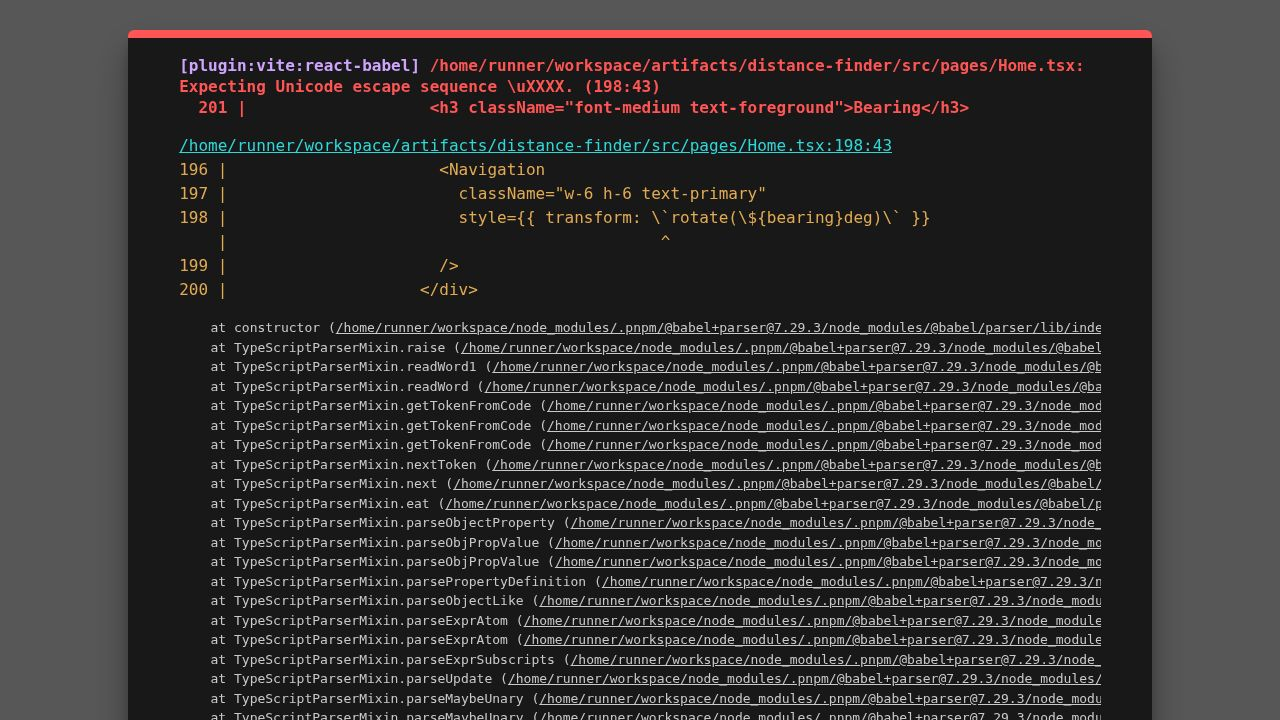
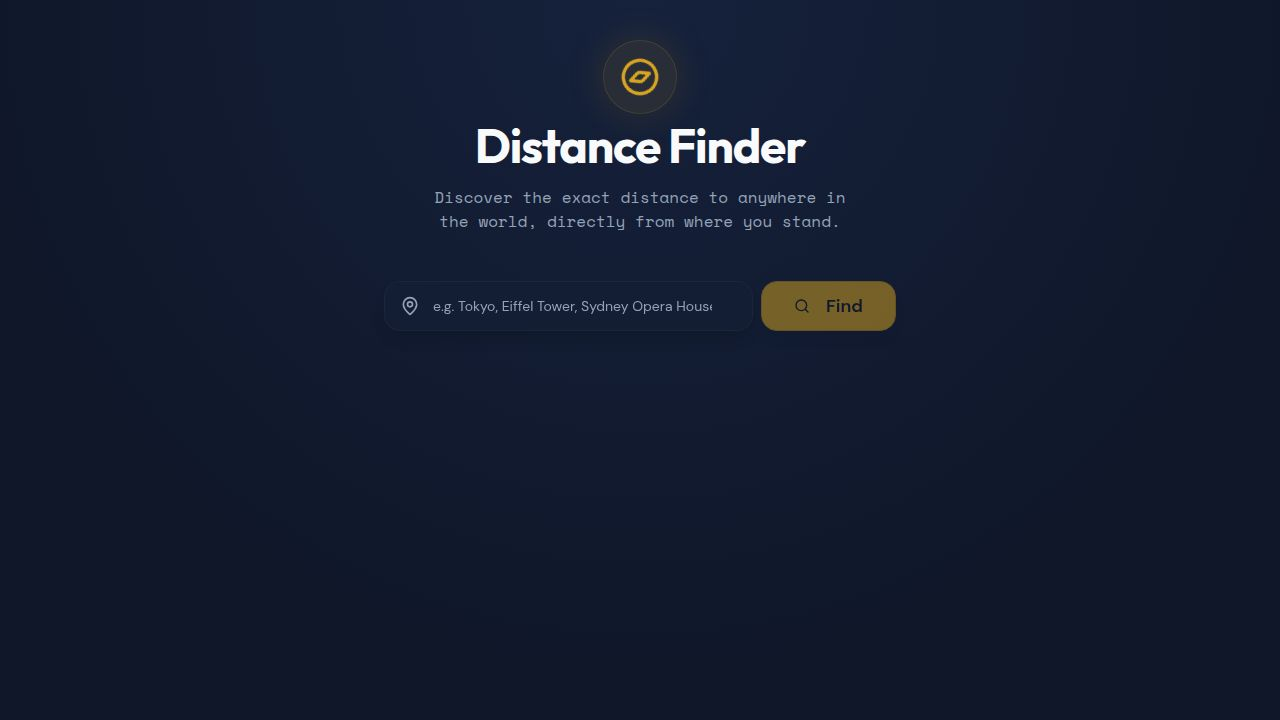
Add interactive map to display user and destination locations
Add a new `DistanceMap` component utilizing `react-leaflet` to visualize user and destination coordinates with custom markers and a polyline. The map integrates Leaflet CSS and uses CartoDB dark tiles, with automatic view fitting.

Replit-Commit-Author: Agent
Replit-Commit-Session-Id: 7f161763-fac2-4180-a043-0b1146ed6c23
Replit-Commit-Checkpoint-Type: full_checkpoint
Replit-Commit-Event-Id: 9f096e1a-4608-4456-9638-667360a2fb62
Replit-Commit-Screenshot-Url: https://storage.googleapis.com/screenshot-production-us-central1/3ae42933-345a-4fba-9efd-fabd83866374/7f161763-fac2-4180-a043-0b1146ed6c23/eLGrO7r
Replit-Helium-Checkpoint-Created: true

diff --git a/artifacts/distance-finder/src/components/DistanceMap.tsx b/artifacts/distance-finder/src/components/DistanceMap.tsx
@@ -1,0 +1,101 @@
+import { useEffect, useRef } from "react";
+import { MapContainer, TileLayer, Marker, Polyline, useMap } from "react-leaflet";
+import L from "leaflet";
+
+const userIcon = L.divIcon({
+  className: "",
+  html: `<div style="
+    width:14px;height:14px;
+    background:#60a5fa;
+    border:2px solid #fff;
+    border-radius:50%;
+    box-shadow:0 0 0 3px rgba(96,165,250,0.35),0 2px 6px rgba(0,0,0,0.5)
+  "></div>`,
+  iconSize: [14, 14],
+  iconAnchor: [7, 7],
+});
+
+const destIcon = L.divIcon({
+  className: "",
+  html: `<div style="
+    width:16px;height:16px;
+    background:#eab308;
+    border:2px solid #fff;
+    border-radius:50%;
+    box-shadow:0 0 0 3px rgba(234,179,8,0.35),0 2px 6px rgba(0,0,0,0.5)
+  "></div>`,
+  iconSize: [16, 16],
+  iconAnchor: [8, 8],
+});
+
+function FitBounds({ positions }: { positions: [number, number][] }) {
+  const map = useMap();
+  const fitted = useRef(false);
+
+  useEffect(() => {
+    if (!fitted.current && positions.length === 2) {
+      const bounds = L.latLngBounds(positions);
+      map.fitBounds(bounds, { padding: [48, 48] });
+      fitted.current = true;
+    }
+  }, [map, positions]);
+
+  return null;
+}
+
+interface DistanceMapProps {
+  userLat: number;
+  userLon: number;
+  destLat: number;
+  destLon: number;
+}
+
+export default function DistanceMap({ userLat, userLon, destLat, destLon }: DistanceMapProps) {
+  const center: [number, number] = [
+    (userLat + destLat) / 2,
+    (userLon + destLon) / 2,
+  ];
+
+  const positions: [number, number][] = [
+    [userLat, userLon],
+    [destLat, destLon],
+  ];
+
+  return (
+    <div
+      data-testid="map-container"
+      className="w-full rounded-3xl overflow-hidden border border-border/50 shadow-xl"
+      style={{ height: "380px" }}
+    >
+      <MapContainer
+        center={center}
+        zoom={4}
+        style={{ height: "100%", width: "100%", background: "#0f172a" }}
+        zoomControl={true}
+        attributionControl={true}
+      >
+        <TileLayer
+          url="https://{s}.basemaps.cartocdn.com/dark_all/{z}/{x}/{y}{r}.png"
+          attribution='&copy; <a href="https://www.openstreetmap.org/copyright">OpenStreetMap</a> &copy; <a href="https://carto.com/">CARTO</a>'
+          subdomains="abcd"
+          maxZoom={19}
+        />
+
+        <Marker position={[userLat, userLon]} icon={userIcon} />
+        <Marker position={[destLat, destLon]} icon={destIcon} />
+
+        <Polyline
+          positions={positions}
+          pathOptions={{
+            color: "#eab308",
+            weight: 2,
+            opacity: 0.7,
+            dashArray: "6 6",
+          }}
+        />
+
+        <FitBounds positions={positions} />
+      </MapContainer>
+    </div>
+  );
+}

diff --git a/artifacts/distance-finder/src/pages/Home.tsx b/artifacts/distance-finder/src/pages/Home.tsx
@@ -3,6 +3,7 @@ import { Compass, MapPin, Navigation, Search, X, Loader2, AlertCircle } from "lu
 import { haversineKm, getBearing, getCompassDirection } from "@/lib/geo";
 import { Button } from "@/components/ui/button";
 import { Input } from "@/components/ui/input";
+import DistanceMap from "@/components/DistanceMap";
 
 type AppState = "idle" | "locating" | "searching" | "success" | "error";
 
@@ -188,6 +189,14 @@ export default function Home() {
                   <span>{Math.round(distanceKm).toLocaleString()} Kilometers</span>
                 </div>
               </div>
+
+              {/* Map */}
+              <DistanceMap
+                userLat={userLoc.lat}
+                userLon={userLoc.lon}
+                destLat={destLoc.lat}
+                destLon={destLoc.lon}
+              />
 
               {/* Detail Cards */}
               <div className="grid grid-cols-1 sm:grid-cols-3 gap-4 max-w-4xl mx-auto mt-12">

diff --git a/artifacts/distance-finder/src/main.tsx b/artifacts/distance-finder/src/main.tsx
@@ -1,5 +1,6 @@
 import { createRoot } from "react-dom/client";
 import App from "./App";
 import "./index.css";
+import "leaflet/dist/leaflet.css";
 
 createRoot(document.getElementById("root")!).render(<App />);